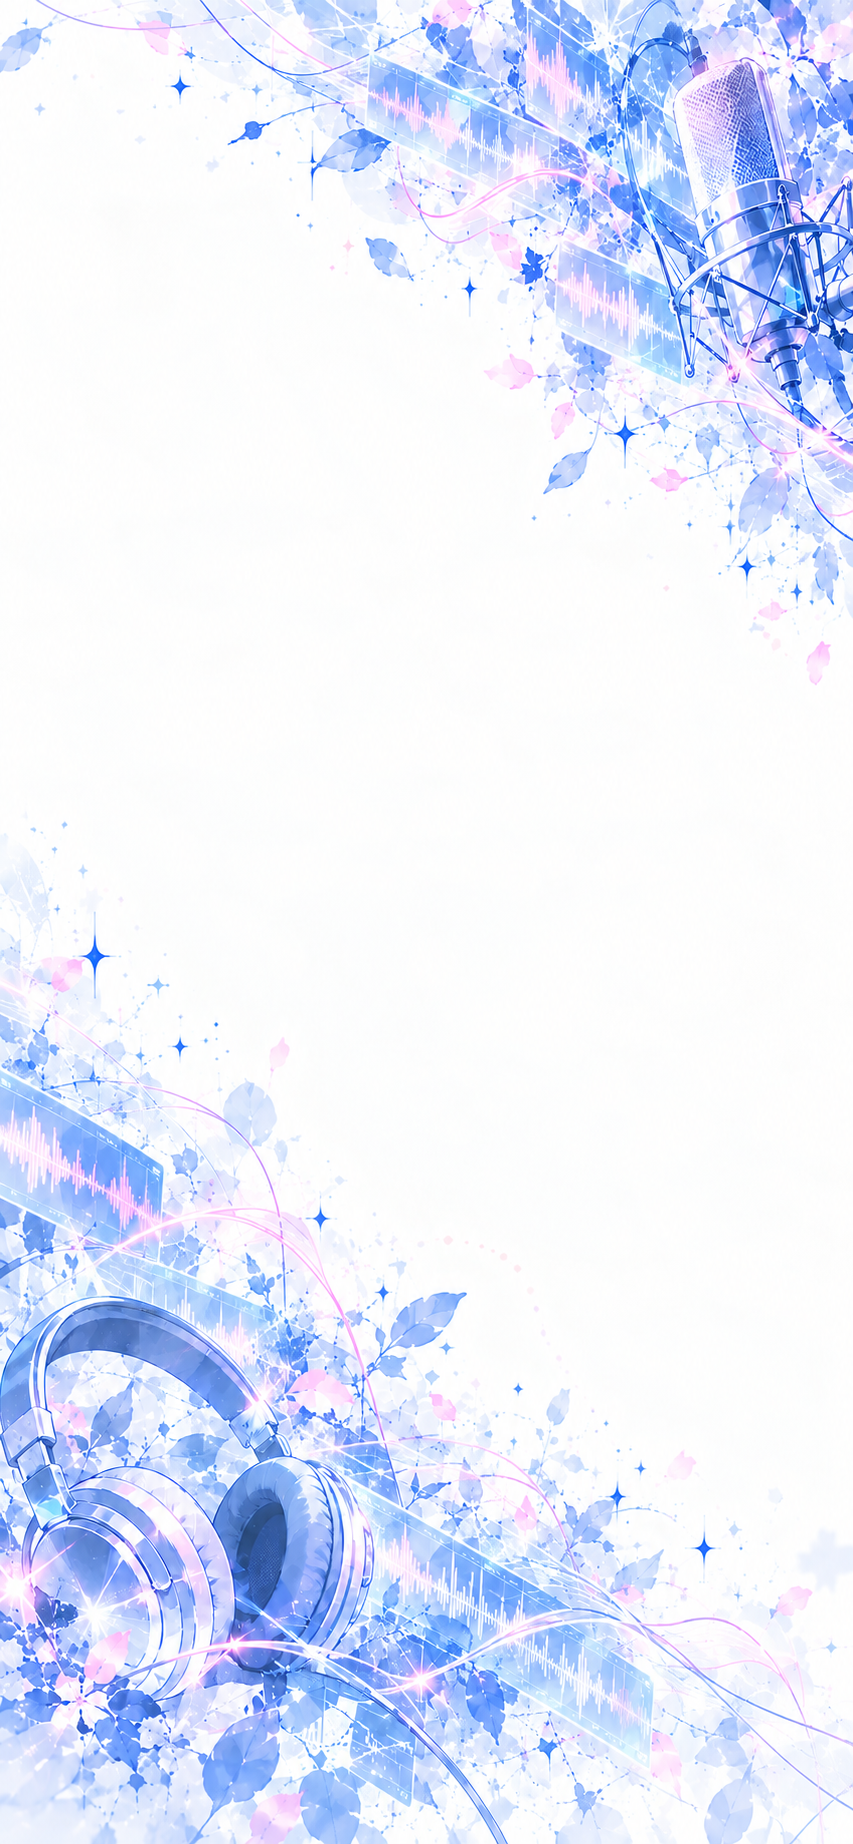
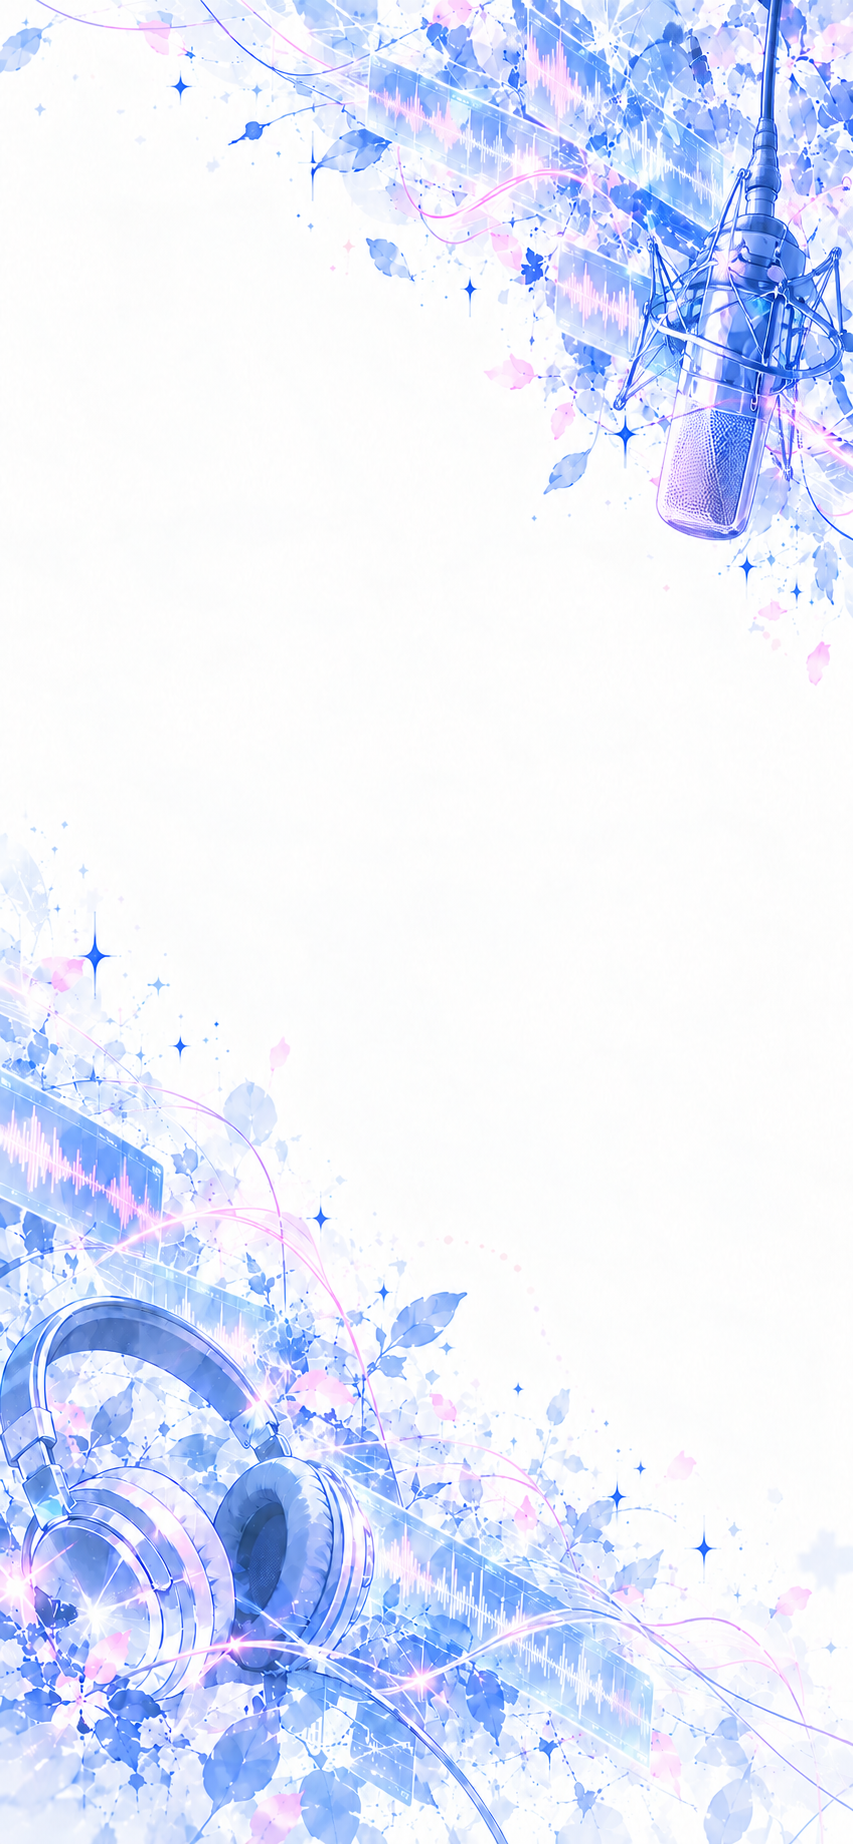
Add voice timeline thumbnails and reposition background microphones

diff --git a/components/VoiceTimeline.tsx b/components/VoiceTimeline.tsx
@@ -8,7 +8,7 @@ import SiteHeader from "@/components/SiteHeader";
 import { ProfileIcon } from "@/components/ProfileEditor";
 import ShareLinkButton from "@/components/ShareLinkButton";
 
-type Line = { id: string; title: string; body: string; category: string | null };
+type Line = { id: string; title: string; body: string; category: string | null; image_url: string | null };
 type Voice = { id: string; user_id: string; line_id: string; audio_url: string; note: string | null; created_at: string; voice_lines: Line | Line[] };
 type Author = { name: string; avatar_path: string | null };
 const pageSize = 12;
@@ -32,7 +32,7 @@ export default function VoiceTimeline() {
     try {
       const supabase = createClient();
       const result = await supabase.from("voice_posts")
-        .select("id, user_id, line_id, audio_url, note, created_at, voice_lines!inner(id, title, body, category)")
+        .select("id, user_id, line_id, audio_url, note, created_at, voice_lines!inner(id, title, body, category, image_url)")
         .eq("voice_lines.status", "published").order("created_at", { ascending: false }).order("id", { ascending: false })
         .range(offset.current, offset.current + pageSize - 1);
       if (result.error) throw result.error;
@@ -94,6 +94,10 @@ export default function VoiceTimeline() {
       const author = authors[voice.user_id];
       return <article key={voice.id} className="rounded-3xl bg-white p-5 shadow-sm sm:p-7">
         <div className="flex items-start justify-between gap-3"><Link href={`/users/${voice.user_id}`} className="flex min-w-0 items-center gap-3"><ProfileIcon small name={author?.name || "投稿者"} path={author?.avatar_path ?? null} /><div className="min-w-0"><p className="break-words text-sm font-bold">{author?.name || "投稿者"}</p><time dateTime={voice.created_at} className="mt-1 block text-xs text-neutral-400">{new Date(voice.created_at).toLocaleString("ja-JP", { timeZone: "Asia/Tokyo", year: "numeric", month: "long", day: "numeric", hour: "2-digit", minute: "2-digit" })}</time></div></Link><ShareLinkButton path={`/lines/voices/${voice.id}`} /></div>
+        {line?.image_url && <Link href={`/lines/voices/${voice.id}`} className="mt-5 block overflow-hidden rounded-xl bg-blue-50" aria-label={`${line.title}の声のページへ`}>
+          {/* eslint-disable-next-line @next/next/no-img-element */}
+          <img src={line.image_url} alt={line.title} loading="lazy" decoding="async" className="aspect-video w-full object-contain" />
+        </Link>}
         <Link href={`/lines/${voice.line_id}`} className="mt-5 block text-lg font-bold text-blue-700 hover:underline">{line?.title || "セリフを見る"}</Link>
         {line?.body && <p className="mt-3 line-clamp-3 whitespace-pre-wrap break-words rounded-xl bg-neutral-50 p-4 text-sm leading-7 text-neutral-600">「{line.body}」</p>}
         <audio controls preload="none" src={voice.audio_url} aria-label={`${author?.name || "投稿者"}の投稿音声`} className="mt-4 w-full" />
